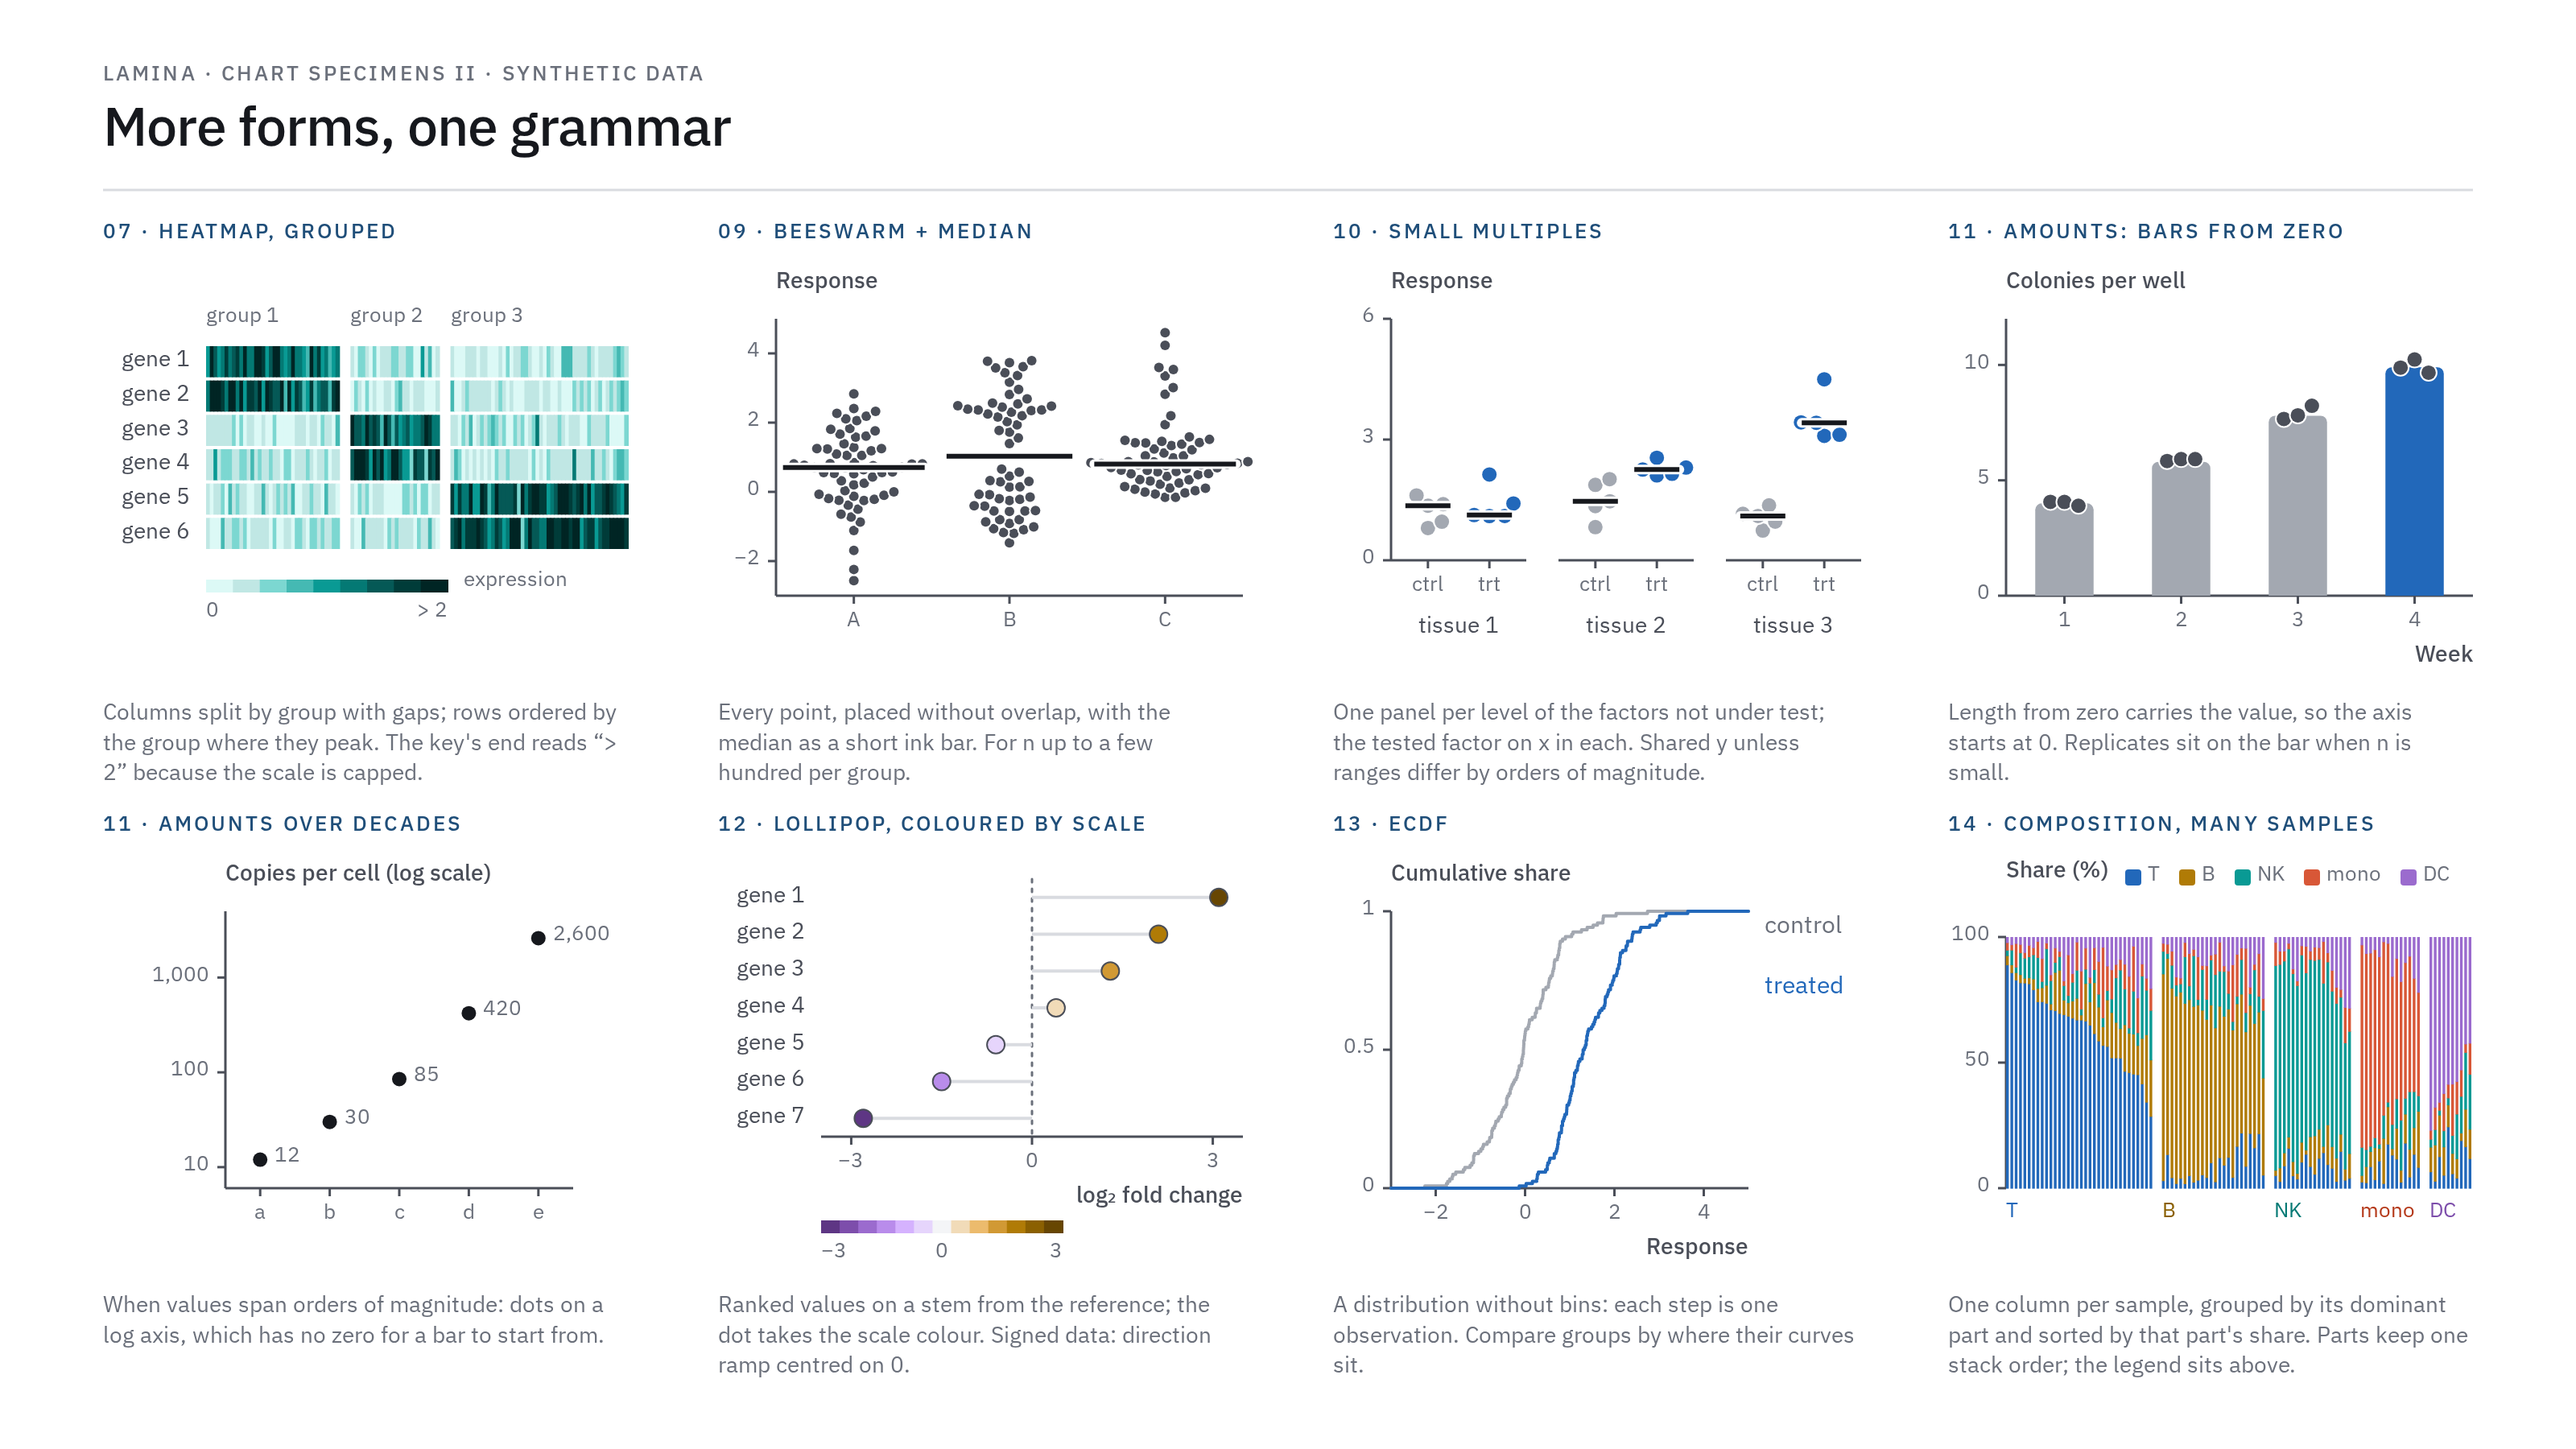
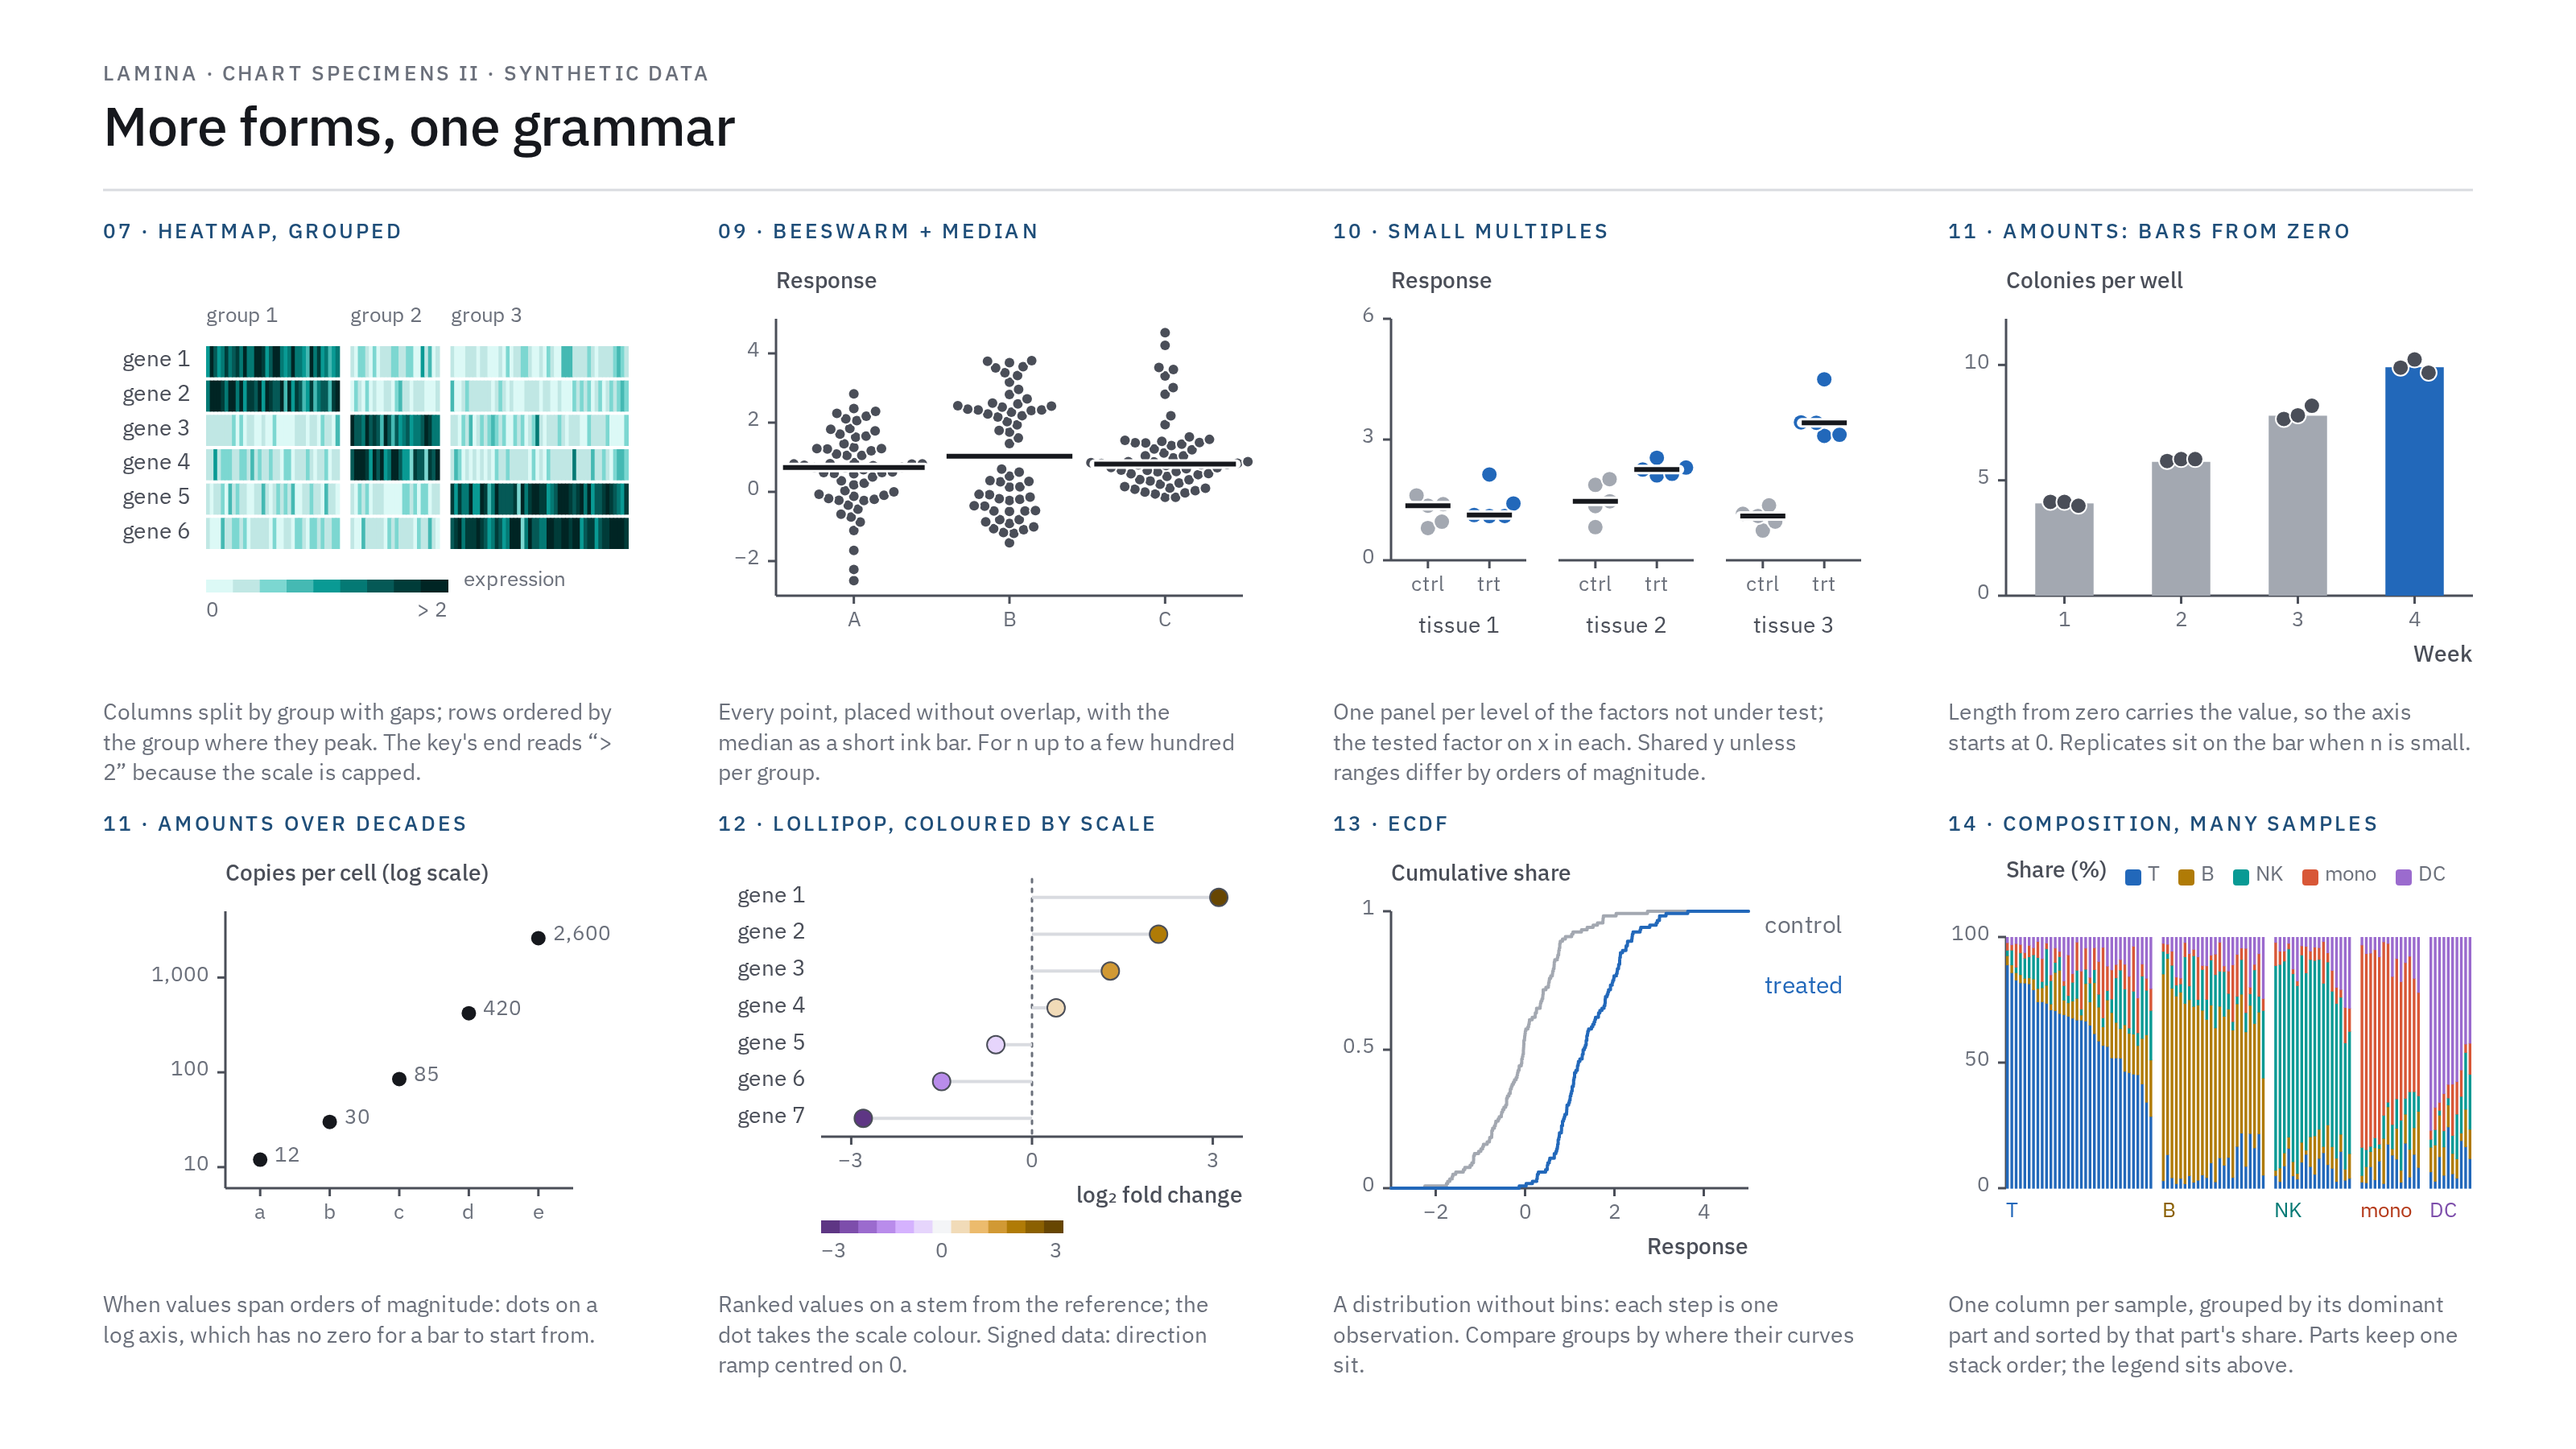
Square the corners of data bars
Ranked bars (01), bars from zero (11) and the kit's bar helper now draw
square rects, matching stacked bars, columns and the publication spec.

diff --git a/formats/abstract/kit/ga-charts.js b/formats/abstract/kit/ga-charts.js
@@ -101,14 +101,13 @@
     ch.label = (str, x, y, m = {}) => ga.text(str, { x: sx(x) + (m.dx || 0), y: sy(y) + (m.dy ?? -9), role: m.role || "cap", anchor: m.anchor || "start", color: m.color, w: m.w, at: m.at ?? (mt === undefined ? undefined : mt + 1.2), anim: "fade" });
 
     // Horizontal bars for named categories. rows: [{label, v, color}]
-    // Bars are <= 22px, rounded at the data end only, and grow from the baseline.
+    // Bars are <= 22px, square-cornered, and grow from the baseline.
     ch.hbars = (rows, m = {}) => {
       const band = H / rows.length, th = Math.min(m.thickness || 18, band - 6);
       rows.forEach((r, i) => {
         const cy = Y0 + band * (i + 0.5), x = sx(0), w = sx(r.v) - x;
         const t = m.at ?? (mt === undefined ? undefined : mt + i * 0.08);
-        const rr = Math.min(4, w);
-        ga.raw(`<path d="M${x} ${cy - th / 2}h${w - rr}a${rr} ${rr} 0 0 1 ${rr} ${rr}v${th - 2 * rr}a${rr} ${rr} 0 0 1 ${-rr} ${rr}h${-(w - rr)}Z" fill="${r.color || m.color || "var(--context)"}"/>`, { at: t, anim: "grow", t: 0.7 });
+        ga.raw(`<rect x="${x}" y="${cy - th / 2}" width="${w}" height="${th}" fill="${r.color || m.color || "var(--context)"}"/>`, { at: t, anim: "grow", t: 0.7 });
         ga.text(r.label, { x: X0 - 10, y: cy - 8, role: "label", size: 14, anchor: "end", color: r.labelColor, at: o.at, anim: "fade" });
         if (m.values !== false) ga.text((m.fmt || fmtDefault)(r.v), { x: sx(r.v) + 6, y: cy - 8, role: "tick", color: r.valueColor, at: t === undefined ? undefined : t + 0.5, anim: "fade" });
       });
@@ -204,13 +203,13 @@
       }
     };
     // Vertical bars from a zero baseline. rows: [{x, v, color}]; width in px
-    // (default half the band). Rounded at the data end, square at the baseline.
+    // (default half the band). Square-cornered.
     ch.vbars = (rows, m = {}) => {
-      const bw = m.width || Math.abs(sx(1) - sx(0)) / 2, rr = 4;
+      const bw = m.width || Math.abs(sx(1) - sx(0)) / 2;
       rows.forEach((r, i) => {
-        const X = sx(r.x) - bw / 2, yb = sy(0), h = yb - sy(r.v), q = Math.min(rr, h);
+        const X = sx(r.x) - bw / 2, yb = sy(0), h = yb - sy(r.v);
         const t = m.at ?? (mt === undefined ? undefined : mt + i * 0.08);
-        ga.raw(`<path d="M${X} ${yb}V${yb - h + q}a${q} ${q} 0 0 1 ${q} ${-q}h${bw - 2 * q}a${q} ${q} 0 0 1 ${q} ${q}V${yb}Z" fill="${r.color || m.color || "var(--context)"}"/>`, { at: t, anim: "rise", t: 0.7 });
+        ga.raw(`<rect x="${X}" y="${yb - h}" width="${bw}" height="${h}" fill="${r.color || m.color || "var(--context)"}"/>`, { at: t, anim: "rise", t: 0.7 });
       });
     };
     // Lollipop: one row per item, a 2px rule stem from the reference (m.ref, default 0)

diff --git a/formats/abstract/kit/ga-kit.js b/formats/abstract/kit/ga-kit.js
@@ -182,7 +182,7 @@
     // Horizontal bar growing from the left (for small quantitative marks)
     bar(o) {
       const g = this.wrap(o.at, "grow", o.t);
-      el("rect", { x: o.x, y: o.y, width: Math.max(o.w, 2), height: o.h || 14, rx: 3, fill: o.fill }, g);
+      el("rect", { x: o.x, y: o.y, width: Math.max(o.w, 2), height: o.h || 14, fill: o.fill }, g);
       return this.add("bar", g, box(o.x, o.y, o.x + o.w, o.y + (o.h || 14)), { lint: false });
     }
 

diff --git a/core/charts.md b/core/charts.md
@@ -66,7 +66,7 @@ Start from the data's job.
 |---|---|
 | Line | 2.5 px, round joins and caps |
 | Step curve | Same as line, drawn as steps |
-| Bar | 4 px rounded data end, square at the baseline, grows from 0. ≤ 22 px thick in ranked bars; about half the band in vertical bars |
+| Bar | Square corners, grows from 0. ≤ 22 px thick in ranked bars; about half the band in vertical bars |
 | Point | r 4.5, 1 px paper ring so overlaps stay legible; r 3–3.5 for about 100 per group |
 | Not-significant point | Hollow: paper fill, 1.5 px ring in the series colour |
 | Summary (median, mean) | Short `ink` bar, 3 px, with a 1.5 px paper halo so it reads over points |

diff --git a/formats/publication/README.md b/formats/publication/README.md
@@ -58,7 +58,6 @@ Canvas px from the core docs become these pt values at print size.
 | Point | r 4.5, 1 px paper ring | r 1.5 pt, 0.25 pt paper ring |
 | Point, dense beeswarm | r 3 | r 1 pt |
 | Summary bar | 3 px | 1 pt, with a 0.5 pt paper halo |
-| Bar corner | 4 px | 0.75 pt |
 | Paper gap (segments, cells) | 2 px | 0.5 pt |
 
 Strokes stay between 0.5 and 1 pt, which every journal accepts (Nature 0.25–1 pt,
